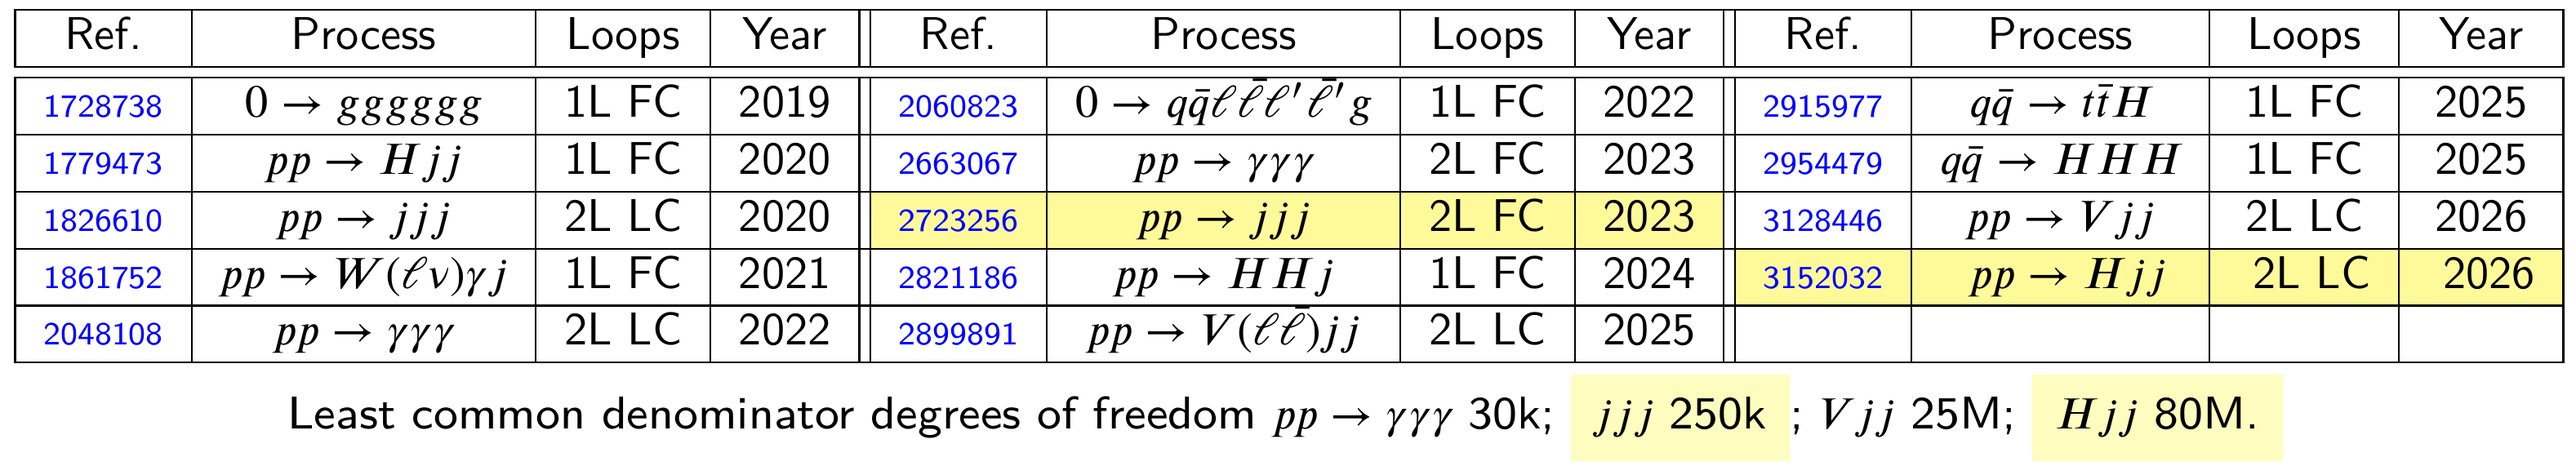
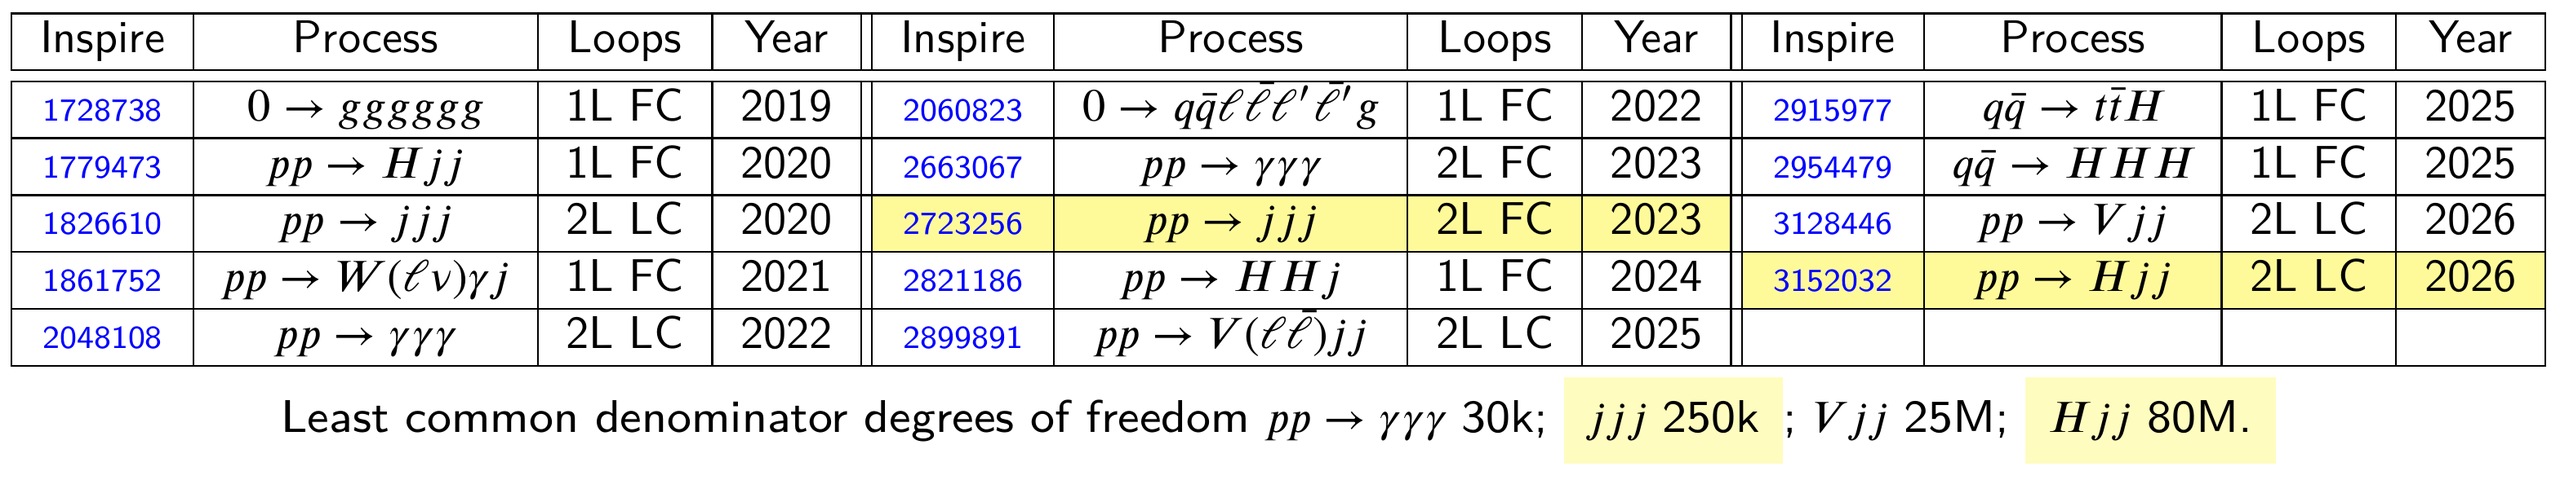
Updated slides

Changed region(s): [[0.0, 0.0, 1.0, 0.8039], [0.0938, 0.8336, 0.9062, 1.0], [0.7812, 0.9527, 0.9062, 1.0]]

diff --git a/content/slides/Amplitudes2026/index.md b/content/slides/Amplitudes2026/index.md
@@ -80,58 +80,67 @@ window.addEventListener("load", function () {
      Giuseppe De Laurentis
 </span>
 
-<div style="font-size: 18pt; text-align: left; margin-bottom: 2mm; margin-top: 5mm; margin-left: 2mm; margin-right: 2mm;">
-     The full physical information of a color-ordered helicity amplitude is in the finite remainder
+<div style="font-size: 18pt; text-align: left; margin-bottom: 2mm; margin-top: 4mm; margin-left: 2mm; margin-right: 2mm;">
+     The full physical information of a color-ordered helicity amplitude is in the finite remainder:
 </div>
-<a style="font-size: large; text-align: right; float: right; margin-top: -3mm; margin-bottom: -3mm;" href=https://inspirehep.net/literature/920274>
-Weinzierl ('11)
-</a>
-<div style="font-size: 14pt; margin-top: 5mm; margin-bottom: 5mm">
+<span style="font-size: 13pt; margin-bottom: -14mm; margin-top: -3mm; float: right; font-align: right;"> 
+<a href=https://www.sciencedirect.com/science/article/abs/pii/S0370269398003323?via%3Dihub>Catani ('98) </a> 
+</span>
+<span style="font-size: 13pt; margin-bottom: -14mm; margin-top: 2mm; float: right; font-align: right;"> 
+<a href=https://journals.aps.org/prl/abstract/10.1103/PhysRevLett.102.162001>Becher, Neubert ('09) </a>
+</span>
+<span style="font-size: 13pt; margin-bottom: -14mm; margin-top: 7mm; float: right; font-align: right;"> 
+<a  href=https://arxiv.org/abs/0901.1091>Gardi, Magnea ('09) </a> 
+</span>
+<span style="font-size: 13pt; margin-bottom: -20mm; margin-top: 12mm; float: right; font-align: right;"> 
+<a href=https://inspirehep.net/literature/920274>Weinzierl ('11) </a>
+</span>
+<div style="font-size: 14pt; margin-top: 5mm; margin-bottom: 5mm; float: center;">
 $$ 
-\textstyle \mathcal{R}^{\ell-\text{loop}}_{n-\text{point}}(\lambda, \tilde\lambda) = \sum_i \color{red}{r_{i}(\lambda,\tilde\lambda)} \, \color{orange}{G_i(\lambda\tilde\lambda)}
+\textstyle \mathcal{R}^{\ell-\text{loop}}_{n-\text{point}}(|i⟩_{\alpha}, [i|_{\dot\alpha}) = \sum_i \color{red}{r_{i}(|i⟩_{\alpha}, [i|_{\dot\alpha})} \, \color{blue}{G_i(|i⟩_{\alpha} {\scriptsize\times} [i|_{\dot\alpha})} \, .
 $$
 </div>
 
-<div style="font-size: 18pt; text-align: center; margin-bottom: 2mm; margin-top: 2mm; margin-left: 2mm; margin-right: 2mm;">
+<div style="font-size: 18pt; text-align: left; margin-bottom: 0mm; margin-top: 2mm; margin-left: 2mm; margin-right: 2mm;">
      <b><i>Challenges:</i></b>
 </div>
-<div style="font-size: 18pt; text-align: left; margin-bottom: 2mm; margin-top: 2mm; margin-left: 2mm; margin-right: 2mm;">
-     $\circ$ compute the <span style="font-size: 15pt;">$\color{orange}{G_i}\,$</span>, a basis of transcendental functions, e.g. the <i>Pentagon Functions</i>
+<div style="font-size: 18pt; text-align: left; margin-bottom: 2mm; margin-top: 0mm; margin-left: 2mm; margin-right: 2mm;">
+     $\circ$ Compute the <span style="font-size: 15pt;">$\color{blue}{G_i}\,$</span>, a basis of transcendental functions, e.g. the <i>Pentagon Functions</i>;
 </div>
-<a style="font-size: large; display: inline-block; text-align: right; float: right; margin-top: -2mm; margin-bottom: -2mm; margin-left: 2mm;" href=https://arxiv.org/abs/2306.15431> + Abreu, Ita, Page, Tschernow ('23) </a>
-<a style="font-size: large; display: inline-block; text-align: right; float: right; margin-top: -2mm; margin-bottom: -2mm; margin-left: 2mm;" href=https://arxiv.org/abs/2110.10111> + Zoia ('21) </a>
-<a style="font-size: large; display: inline-block; text-align: right; float: right; margin-top: -2mm; margin-bottom: -2mm; margin-right: 0mm; " href=https://arxiv.org/abs/2009.07803> Chicherin, Sotnikov ('20) </a> 
+<a style="font-size: 13pt; display: inline-block; text-align: right; float: right; margin-top: -2mm; margin-bottom: -2mm; margin-left: 2mm;" href=https://arxiv.org/abs/2306.15431> + Abreu, Ita, Page, Tschernow ('23) </a>
+<a style="font-size: 13pt; display: inline-block; text-align: right; float: right; margin-top: -2mm; margin-bottom: -2mm; margin-left: 2mm;" href=https://arxiv.org/abs/2110.10111> + Zoia ('21) </a>
+<a style="font-size: 13pt; display: inline-block; text-align: right; float: right; margin-top: -2mm; margin-bottom: -2mm; margin-right: 0mm; " href=https://arxiv.org/abs/2009.07803> Chicherin, Sotnikov ('20) </a> 
 
 <div style="font-size: 18pt; text-align: left; margin-bottom: 2mm; margin-top: 7mm; margin-left: 2mm; margin-right: 2mm;">
-     $\circ$ reconstruct the <span style="font-size: 15pt;">$\color{red}{r_{i}}\,$</span>, functions in the field of fractions over a polynomial quotient ring,
+     $\circ$ Reconstruct the <span style="font-size: 15pt;">$\color{red}{r_{i}}\,$</span>, functions in the field of fractions over a polynomial quotient ring,
 </div>
-<a style="font-size: large; display: inline-block; text-align: right; float: right; margin-top: -2mm; margin-bottom: -2mm; margin-left: 2mm;" href=https://arxiv.org/abs/1406.4513>
-GDL, Page ('22)
+<a style="font-size: 13pt; display: inline-block; text-align: right; float: right; margin-top: -2mm; margin-bottom: -2mm; margin-left: 2mm;" href=https://arxiv.org/abs/1406.4513>
+GDL, Page ('22).
 </a>
-<a style="font-size: large; display: inline-block; text-align: right; float: right; margin-top: -2mm; margin-bottom: -2mm; margin-left: 2mm;" href=https://arxiv.org/abs/1406.4513>
+<a style="font-size: 13pt; display: inline-block; text-align: right; float: right; margin-top: -2mm; margin-bottom: -2mm; margin-left: 2mm;" href=https://arxiv.org/abs/1406.4513>
 GDL, Maitre ('19);
 </a>
-<a style="font-size: large; display: inline-block; text-align: right; float: right; margin-top: -2mm; margin-bottom: -2mm; margin-left: 2mm;" href=https://arxiv.org/abs/1608.01902>
+<a style="font-size: 13pt; display: inline-block; text-align: right; float: right; margin-top: -2mm; margin-bottom: -2mm; margin-left: 2mm;" href=https://arxiv.org/abs/1608.01902>
 Peraro ('16); 
 </a>
 <div style="font-size: 14pt; margin-top: 9mm; margin-bottom: 1mm">
 $$
-\displaystyle \kern10mm R_{n} = \mathbb{F}\Big[|1⟩_{\alpha}, [1|_{\dot\alpha}, \dots, |n⟩_{\alpha}, [n|_{\dot\alpha} \Big] \Big/ J \qquad \text{with} \qquad J = \text{Ideal} \Big( {\textstyle \sum_{i=1}^n} |i\rangle[ i | \Big)
+\displaystyle \kern10mm R_{n} = \mathbb{F}\Big[|1⟩_{\alpha}, [1|_{\dot\alpha}, \dots, |n⟩_{\alpha}, [n|_{\dot\alpha} \Big] \Big/ J \qquad \text{with} \qquad J = \text{Ideal} \Big( {\textstyle \sum_{i=1}^n} |i\rangle[ i | \Big) \, ,
 $$
 </div>
 <div style="font-size: 18pt; text-align: left; margin-bottom: 3mm; margin-top: -2mm; margin-left: 2mm; margin-right: 2mm;">
-     $\phantom{\circ}$ connection to algebraic geometry; extensions to massive particles (spin-spinors).
+     $\phantom{\circ}$ in connection with algebraic geometry, and extended to massive particles (spin-spinors).
 </div>
-<span style="font-size: 14pt; margin-bottom: -3mm; margin-top: -4mm; float: right; font-align: right;"> 
-<a href="https://arxiv.org/abs/1709.04891"> Arkani-Hamed, Huang, Huang; </a> 
-<a href="https://arxiv.org/abs/1802.06730"> Ochirov; </a>
-<a href="https://arxiv.org/abs/1809.09644"> Shadmi, Weiss; </a> 
-<a href="https://arxiv.org/abs/arXiv:2504.19909"> Campbell, GDL, Ellis; </a>
-<a href="https://arxiv.org/abs/arXiv:2603.10269"> GDL, Melnikov, Tresoldi </a>
+<span style="font-size: 13pt; margin-bottom: -1mm; margin-top: -3mm; float: right; font-align: right;"> 
+<a href="https://arxiv.org/abs/1709.04891"> Arkani-Hamed, Huang, Huang ('17); </a> 
+<a href="https://arxiv.org/abs/1802.06730"> Ochirov ('18); </a>
+<a href="https://arxiv.org/abs/1809.09644"> Shadmi, Weiss ('18); </a> 
+<a href="https://arxiv.org/abs/arXiv:2504.19909"> Campbell, GDL, Ellis ('25); </a>
+<a href="https://arxiv.org/abs/arXiv:2603.10269"> GDL, Melnikov, Tresoldi ('26) </a>
 </span>
 
-<div style="font-size: 18pt; text-align: left; margin-bottom: 2mm; margin-top: 5mm; margin-left: 2mm; margin-right: 2mm;">
-     <b><i>Amplitudes we computed:</i></b>
+<div style="font-size: 18pt; text-align: left; margin-bottom: 2mm; margin-top: 7mm; margin-left: 2mm; margin-right: 2mm;">
+     <b><i>Amplitudes we computed:</i></b> $\kern3mm$ <span style="font-size: 13pt;">GDL + [Abreu, Campbell, Ellis, Ita, Klinkert, Kuschke, Maitre, Page, Ruf, Seth, Sotnikov, ...]</span>
 </div>
 <div>
 <img src="GDLTableTransparent2.png"; style="max-width:950px; float:center; border:none; margin-top: -3mm; margin-bottom: 0mm;">
